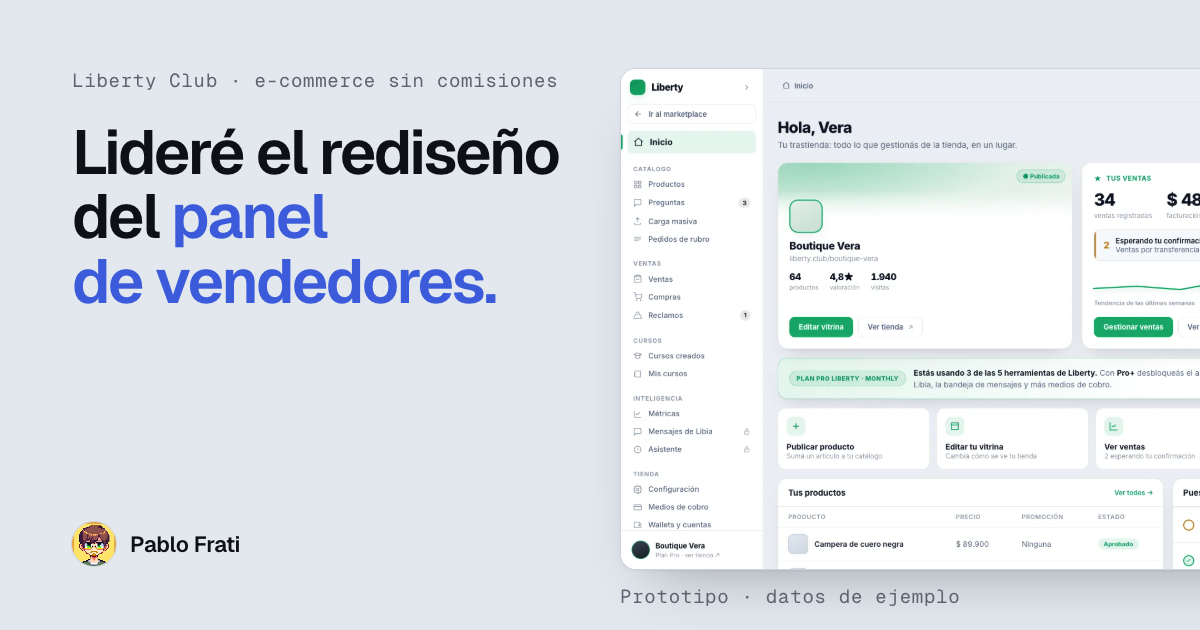
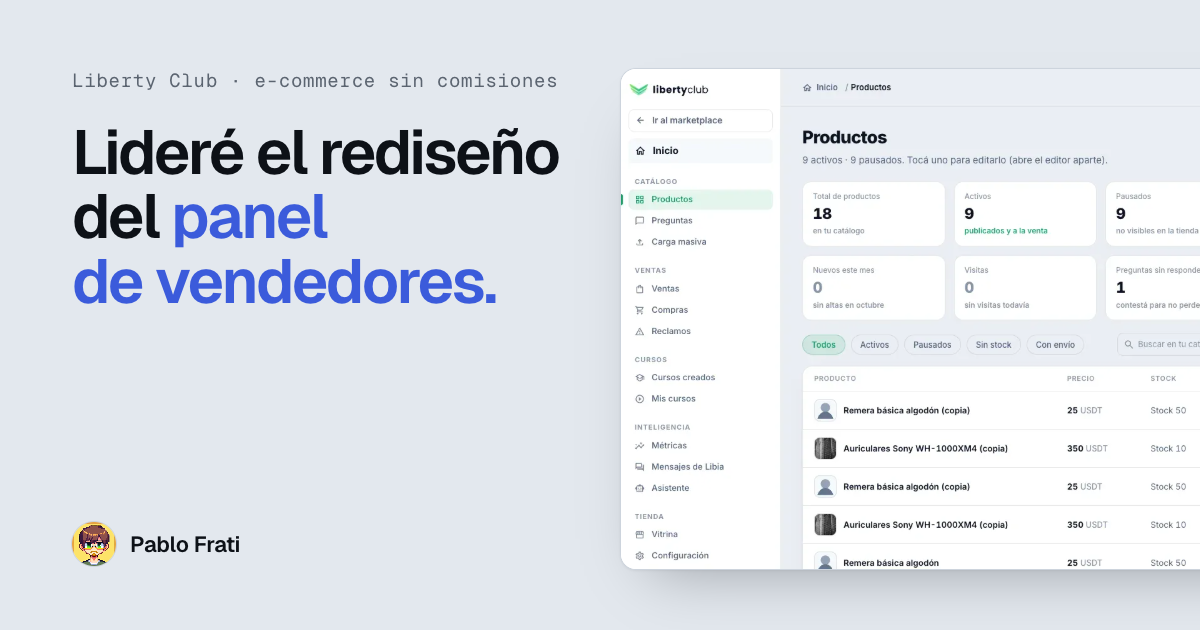
El panel con la vista previa nueva (Productos)
La imagen para compartir del caso del panel pasa a ser la pantalla de Productos, sin el rótulo «Prototipo · datos de
ejemplo» (og:image con ?v=2).

diff --git a/caso-panel.html b/caso-panel.html
@@ -85,16 +85,16 @@
 <meta property="og:title" content="El panel de vendedores · Pablo Frati">
 <meta property="og:description" content="Liberty Club, un e-commerce sin comisiones. Lideré el rediseño del panel de vendedores: 18 pantallas en 10 días, construidas con Cursor y Claude Code.">
 <meta property="og:url" content="https://pablofrati.com/caso-panel.html">
-<meta property="og:image" content="https://pablofrati.com/img/og/caso-panel.png">
+<meta property="og:image" content="https://pablofrati.com/img/og/caso-panel.png?v=2">
 <meta property="og:image:type" content="image/png">
 <meta property="og:image:width" content="1200">
 <meta property="og:image:height" content="630">
-<meta property="og:image:alt" content="«Lideré el rediseño del panel de vendedores.» Al lado, el prototipo del Inicio del panel de vendedores, con datos de ejemplo.">
+<meta property="og:image:alt" content="«Lideré el rediseño del panel de vendedores.» Al lado, la pantalla de Productos del panel nuevo: las métricas del catálogo arriba y la tabla de productos.">
 <meta name="twitter:card" content="summary_large_image">
 <meta name="twitter:title" content="El panel de vendedores · Pablo Frati">
 <meta name="twitter:description" content="Liberty Club, un e-commerce sin comisiones. Lideré el rediseño del panel de vendedores: 18 pantallas en 10 días, construidas con Cursor y Claude Code.">
-<meta name="twitter:image" content="https://pablofrati.com/img/og/caso-panel.png">
-<meta name="twitter:image:alt" content="«Lideré el rediseño del panel de vendedores.» Al lado, el prototipo del Inicio del panel de vendedores, con datos de ejemplo.">
+<meta name="twitter:image" content="https://pablofrati.com/img/og/caso-panel.png?v=2">
+<meta name="twitter:image:alt" content="«Lideré el rediseño del panel de vendedores.» Al lado, la pantalla de Productos del panel nuevo: las métricas del catálogo arriba y la tabla de productos.">
 <script>try { if (!matchMedia('(prefers-reduced-motion: reduce), (max-height: 500px)').matches) document.documentElement.classList.add('story'); } catch (e) {}
 (function (R) { var cel = false, rm = false; try { cel = matchMedia('(max-width: 860px)').matches; rm = matchMedia('(prefers-reduced-motion: reduce)').matches; } catch (e) {}
   if (cel) R.classList.add('cel'); window.__pfGiro = 'recargar'; if (cel && rm) return;
